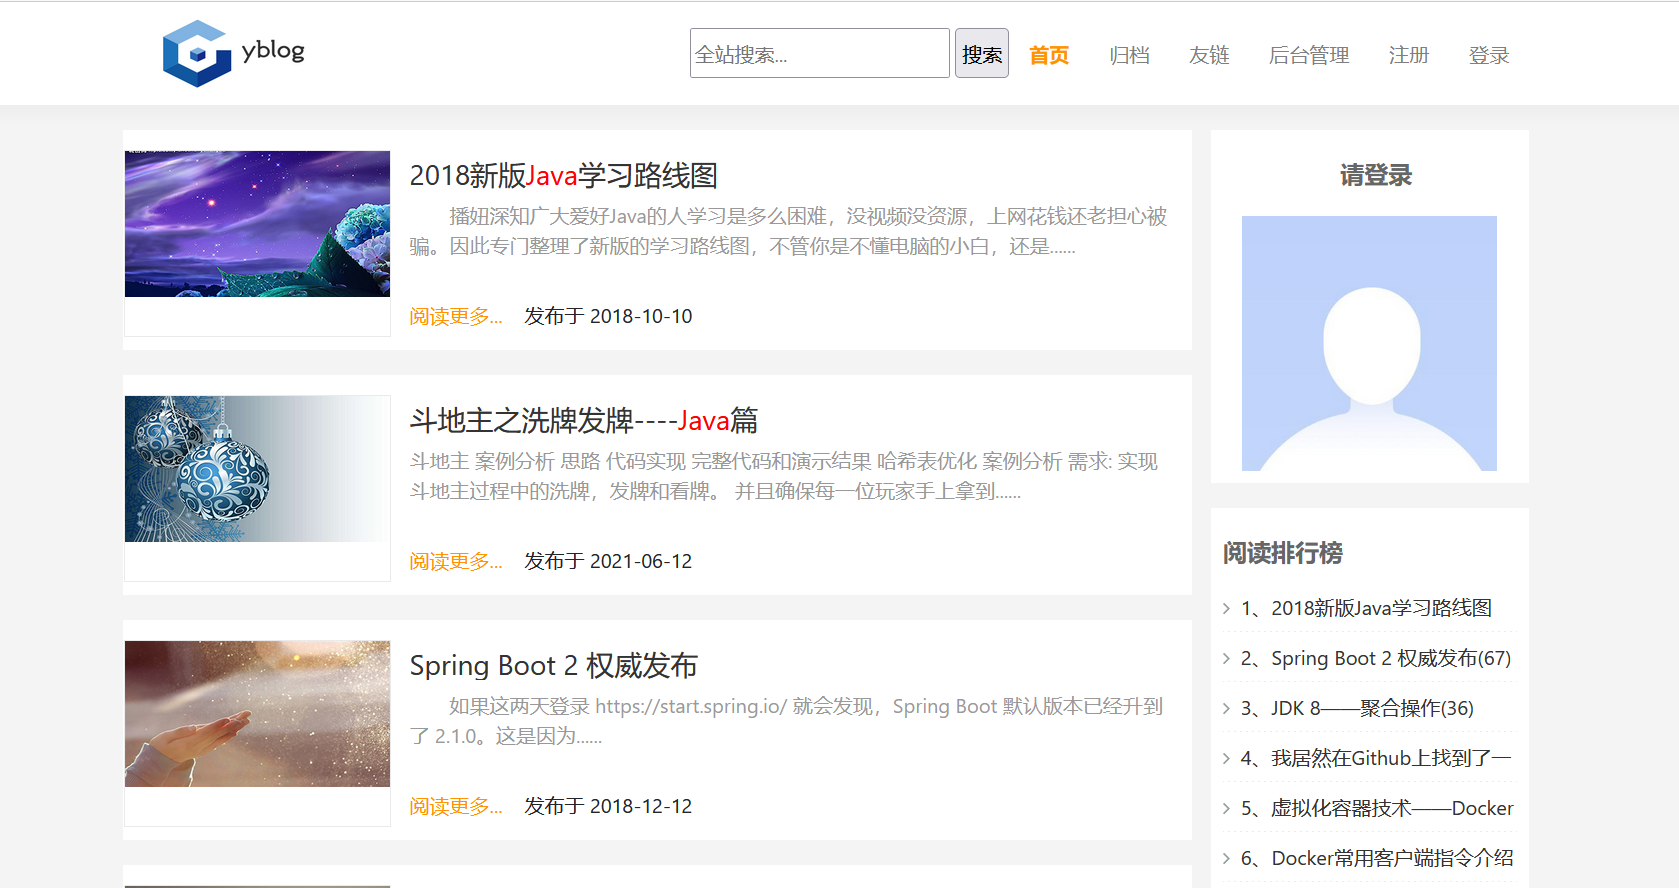
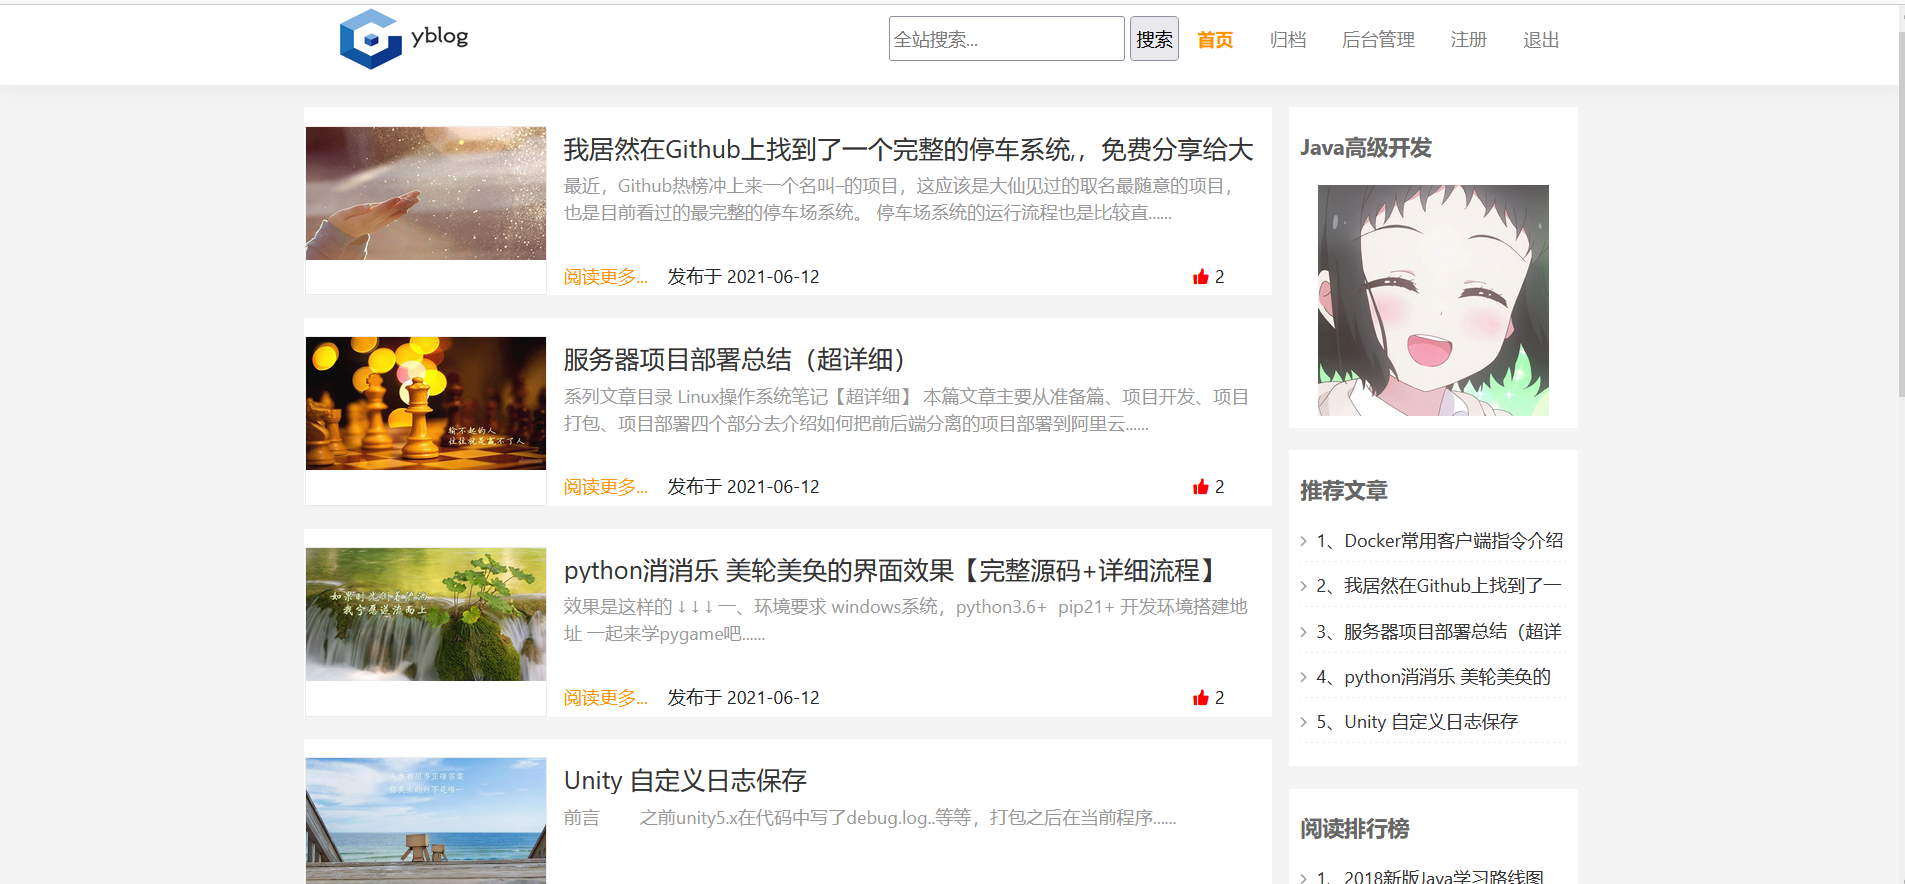
2021/6/28 上传最新ui界面

diff --git a/src/main/resources/templates/back/newback/article/visitor_list.html b/src/main/resources/templates/back/newback/article/visitor_list.html
@@ -106,7 +106,7 @@
                                 查询
                             </button>
                         </div>
-                        <div id="context" style="width: 200px;height: 50px;margin-left: 20px;">11</div>
+                        <div id="context" style="width: 200px;height: 50px;margin-left: 20px;"></div>
                     </form>
 
 

diff --git a/src/main/resources/templates/back/newback/article/statistic_charts.html b/src/main/resources/templates/back/newback/article/statistic_charts.html
@@ -246,6 +246,9 @@
             tooltip: {
                 trigger: 'axis'
             },
+            title: {
+                text: '近7天的访问量'
+            },
             xAxis: [{
                 type: 'category',
                 data:

diff --git a/README.md b/README.md
@@ -152,6 +152,7 @@ new Valine({
 * RabbitMQ帐号：guest 密码： guest
 
 ### 图片演示
+后台管理(第二套界面)👇
 ![01.png](https://gitee.com/youzhengjie/springBootBlog/raw/master/image/01.PNG)
 ![02.png](https://gitee.com/youzhengjie/springBootBlog/raw/master/image/02.PNG)
 ![03.png](https://gitee.com/youzhengjie/springBootBlog/raw/master/image/03.PNG)
@@ -166,15 +167,10 @@ new Valine({
 ![12.png](https://gitee.com/youzhengjie/springBootBlog/raw/master/image/12.PNG)
 ![13.png](https://gitee.com/youzhengjie/springBootBlog/raw/master/image/13.PNG)
 ![14.png](https://gitee.com/youzhengjie/springBootBlog/raw/master/image/14.PNG)
-![15.png](https://gitee.com/youzhengjie/springBootBlog/raw/master/image/15.PNG)
-![16.png](https://gitee.com/youzhengjie/springBootBlog/raw/master/image/16.PNG)
-![17.png](https://gitee.com/youzhengjie/springBootBlog/raw/master/image/17.PNG)
-![19.png](https://gitee.com/youzhengjie/springBootBlog/raw/master/image/19.PNG)
-![20.png](https://gitee.com/youzhengjie/springBootBlog/raw/master/image/20.PNG)
-
-第二套主题👇
-
+前台界面(第二套界面)👇
 ![21.png](https://gitee.com/youzhengjie/springBootBlog/raw/master/image/21.PNG)
+![22.png](https://gitee.com/youzhengjie/springBootBlog/raw/master/image/22.PNG)
+![23.png](https://gitee.com/youzhengjie/springBootBlog/raw/master/image/23.PNG)
 
 
 
